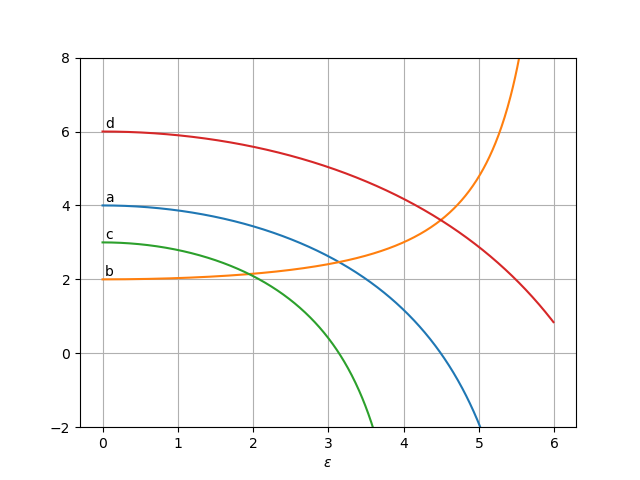
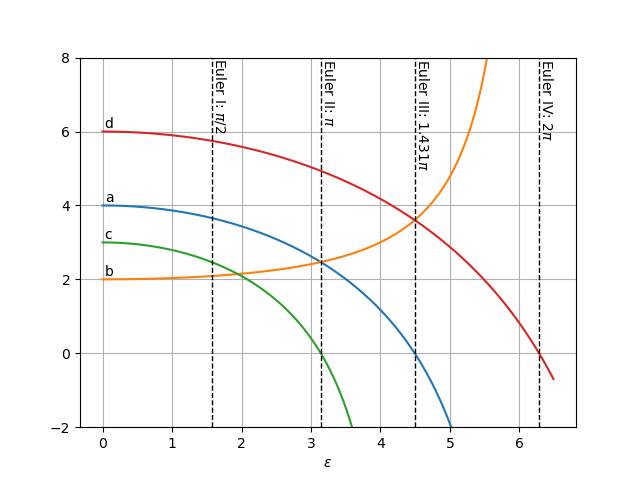
Added plots for coefficients a,b,c,d

diff --git a/plots/plot1_coeff.py b/plots/plot1_coeff.py
@@ -50,22 +50,26 @@ def _D( e, N ):
 
 
 #plot 1
-e = np.arange(0.0, 6.0, 0.01)
+e = np.arange(0.0, 6.5, 0.01)
 N = -1
 A = []
 B = []
 C = []
 D = []
 
-for _e in e:
+for _e in np.arange(0.0, 6.0, 0.01):
 	A.append(_A(_e,N))
+for _e in np.arange(6.0, 6.5, 0.01):
+	A.append(-100)
 
-for _e in e:
+for _e in np.arange(0.0, 6.0, 0.01):
 	B.append(_B(_e,N))
+for _e in np.arange(6.0, 6.5, 0.01):
+	B.append(100)
 
 for _e in np.arange(0.0, 4.45, 0.01):
 	C.append(_C(_e,N))
-for _e in np.arange(4.45, 6.0, 0.01):
+for _e in np.arange(4.45, 6.5, 0.01):
 	C.append(-100)
 
 for _e in e:
@@ -82,6 +86,18 @@ axes.annotate('a', xy=(0.03, 4.1))
 axes.annotate('b', xy=(0.03, 2.1))
 axes.annotate('c', xy=(0.03, 3.1))
 axes.annotate('d', xy=(0.03, 6.1))
+
+plt.plot([np.pi/2, np.pi/2], [-2, 8], linestyle='--', linewidth=1, color='black')
+axes.text(np.pi/2, 7.65, r'Euler I: $\pi$/2', rotation=270)
+
+plt.plot([np.pi, np.pi], [-2, 8], linestyle='--', linewidth=1, color='black')
+axes.text(np.pi, 7.65, r'Euler II: $\pi$', rotation=270)
+
+plt.plot([np.pi*1.431, np.pi*1.431], [-2, 8], linestyle='--', linewidth=1, color='black')
+axes.text(np.pi*1.431, 7.65, r'Euler III: 1.431$\pi$', rotation=270)
+
+plt.plot([np.pi*2, np.pi*2], [-2, 8], linestyle='--', linewidth=1, color='black')
+axes.text(np.pi*2, 7.65, r'Euler IV: 2$\pi$', rotation=270)
 
 axes.set_ylim([-2,8])
 
